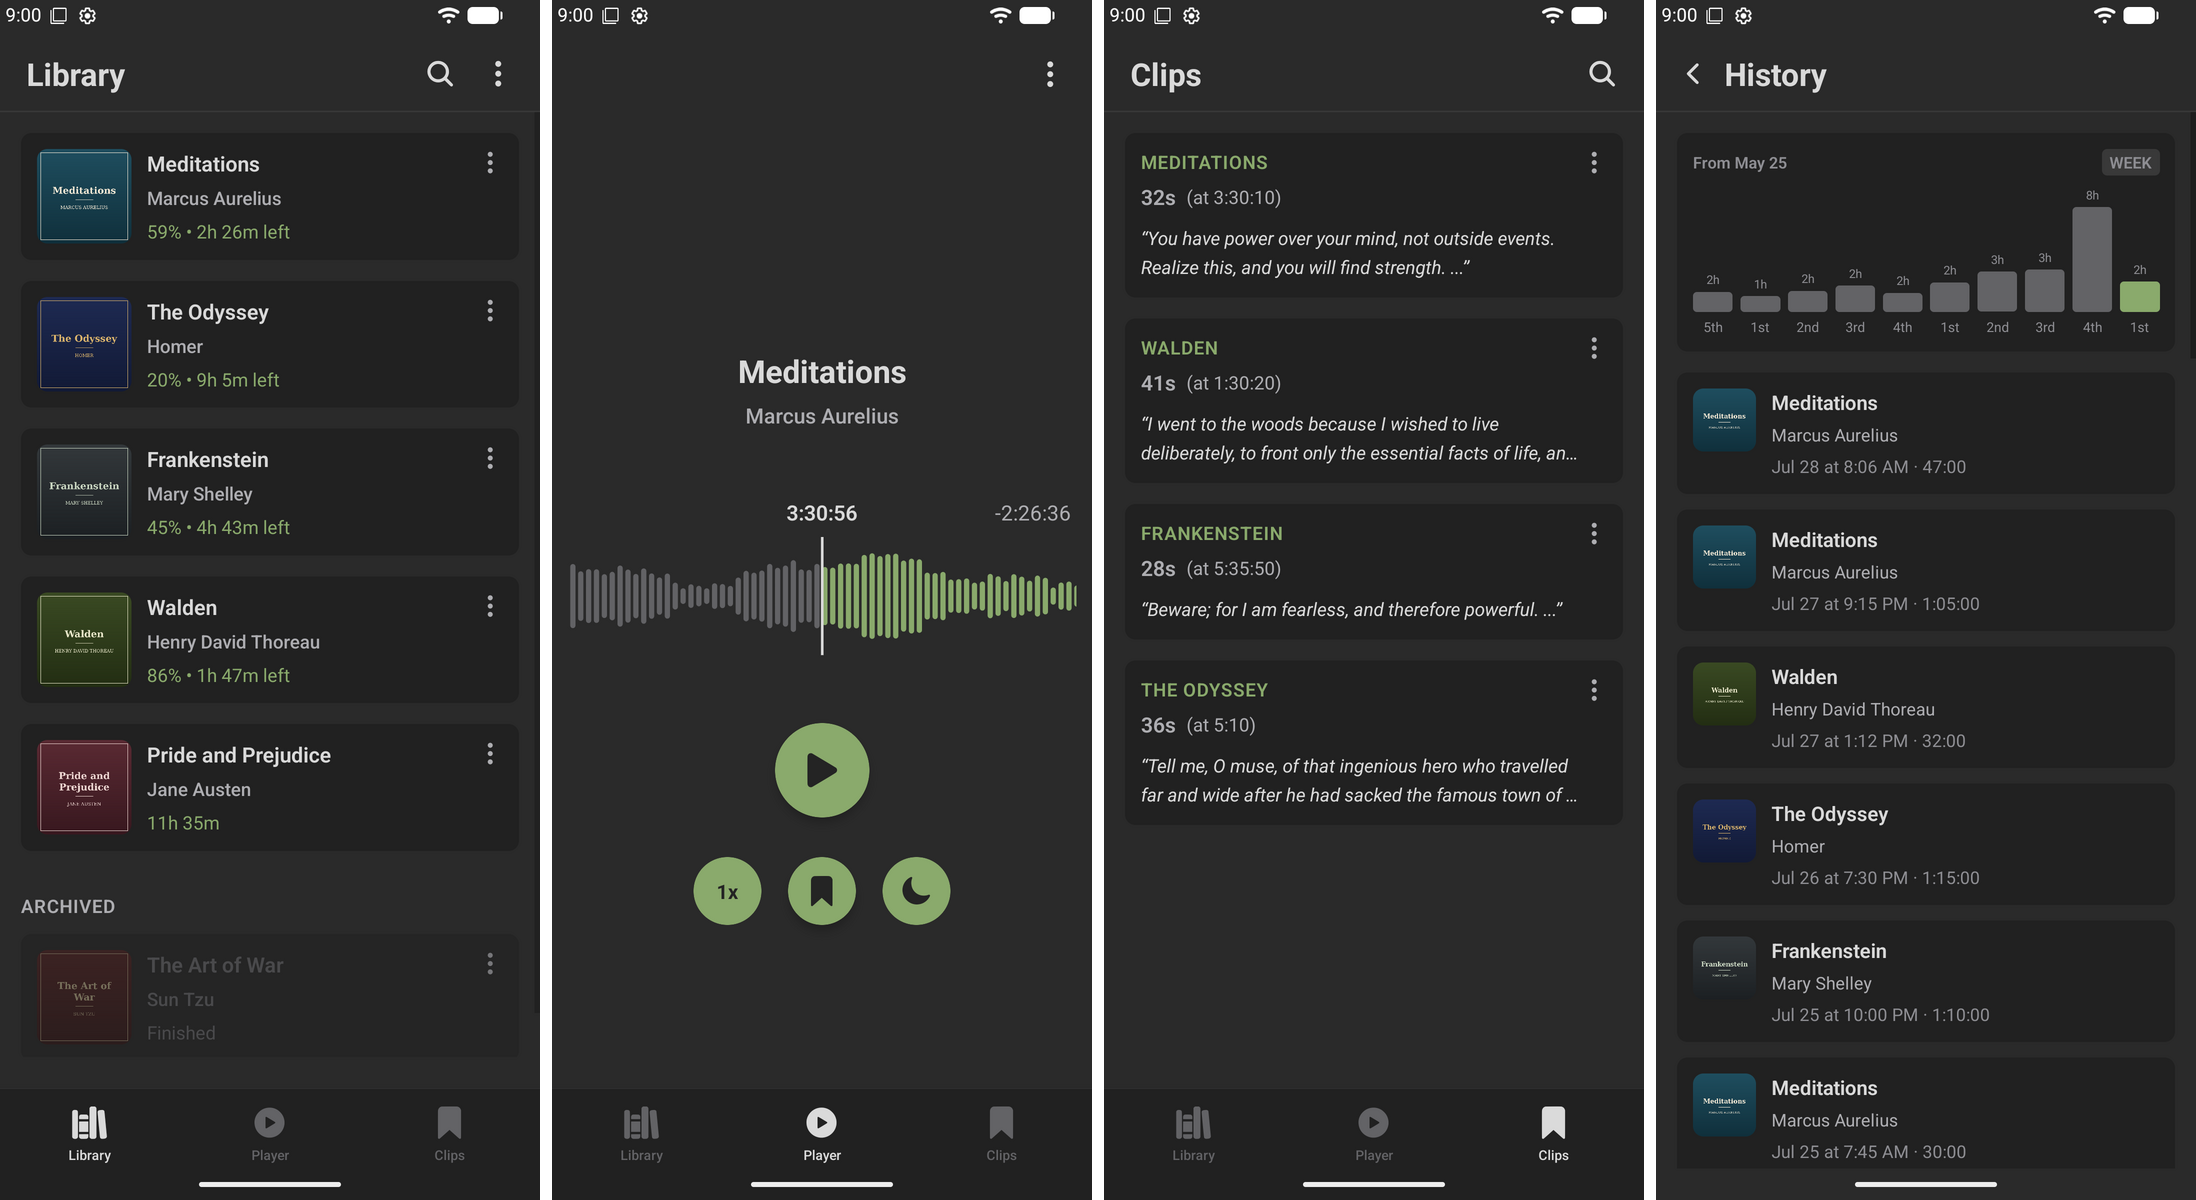
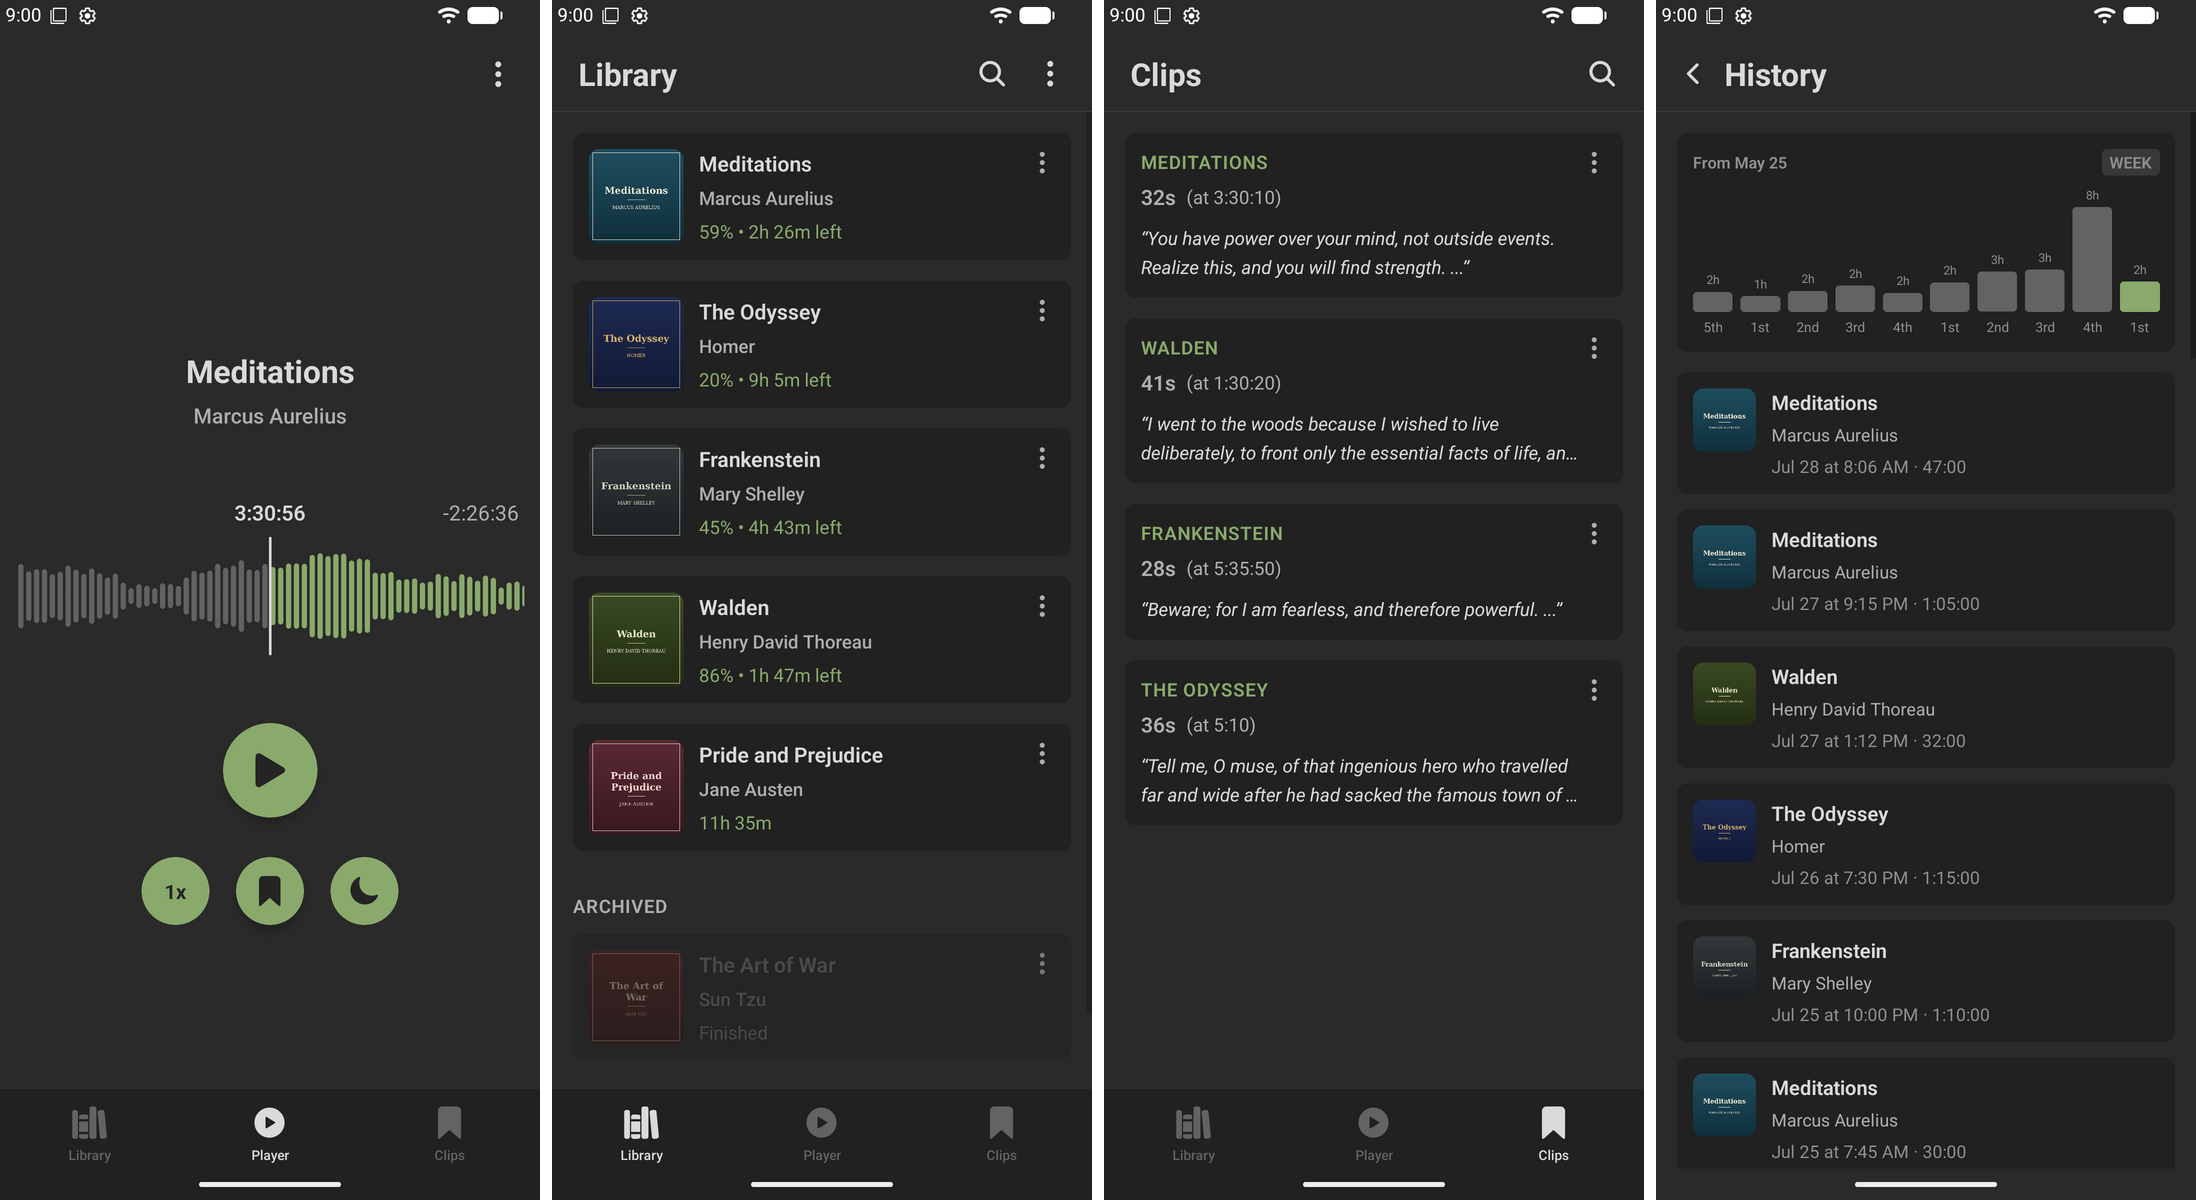
docs: reorder README screenshot composite (player first)

diff --git a/CLAUDE.md b/CLAUDE.md
@@ -551,7 +551,7 @@ Everything project-specific goes through the toolkit CLI — `script/toolkit.ts`
 5. **Check:** `script/toolkit.ts doctor` — the ffmpeg closure check on the fresh release APK is part of its report.
 6. **Tag:** `vX.Y.Z` — only after the build succeeds.
 7. **Deliver:** copy the AAB to `playstore/ivy-X.Y.Z.aab` (gitignored; in the container this moves it from the build mirror to the shared mount) and print that path for Play Console upload. (`dist/` is the website build output — `script/toolkit.ts build web` — not a delivery location.)
-8. **Screenshots (only if UI changed):** after refreshing `web/assets/` screenshots, regenerate the README composite: `convert web/assets/{01-library,02-player,03-clips,05-history}.png -resize x1200 -background none -splice 12x0 +append -chop 12x0 docs/screenshots.png`
+8. **Screenshots (only if UI changed):** after refreshing `web/assets/` screenshots, regenerate the README composite: `convert web/assets/{02-player,01-library,03-clips,05-history}.png -resize x1200 -background none -splice 12x0 +append -chop 12x0 docs/screenshots.png`
 
 
 ## Native Packaging Changes
